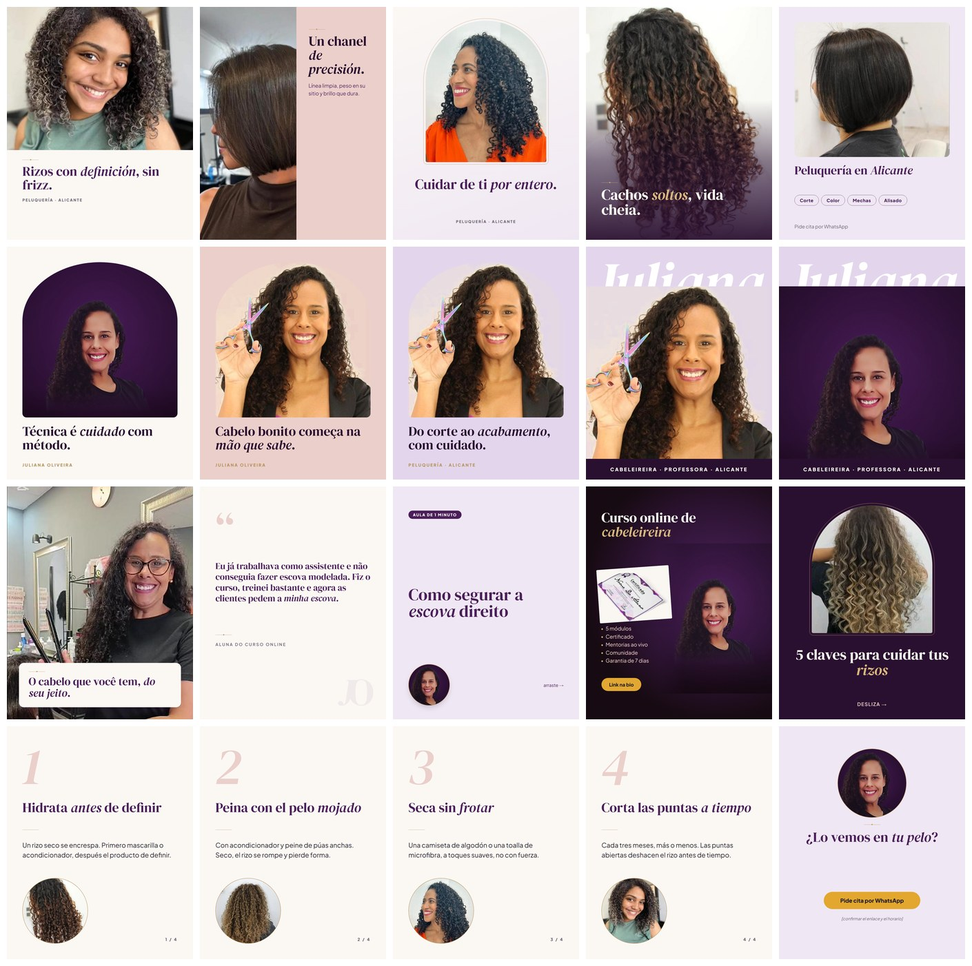
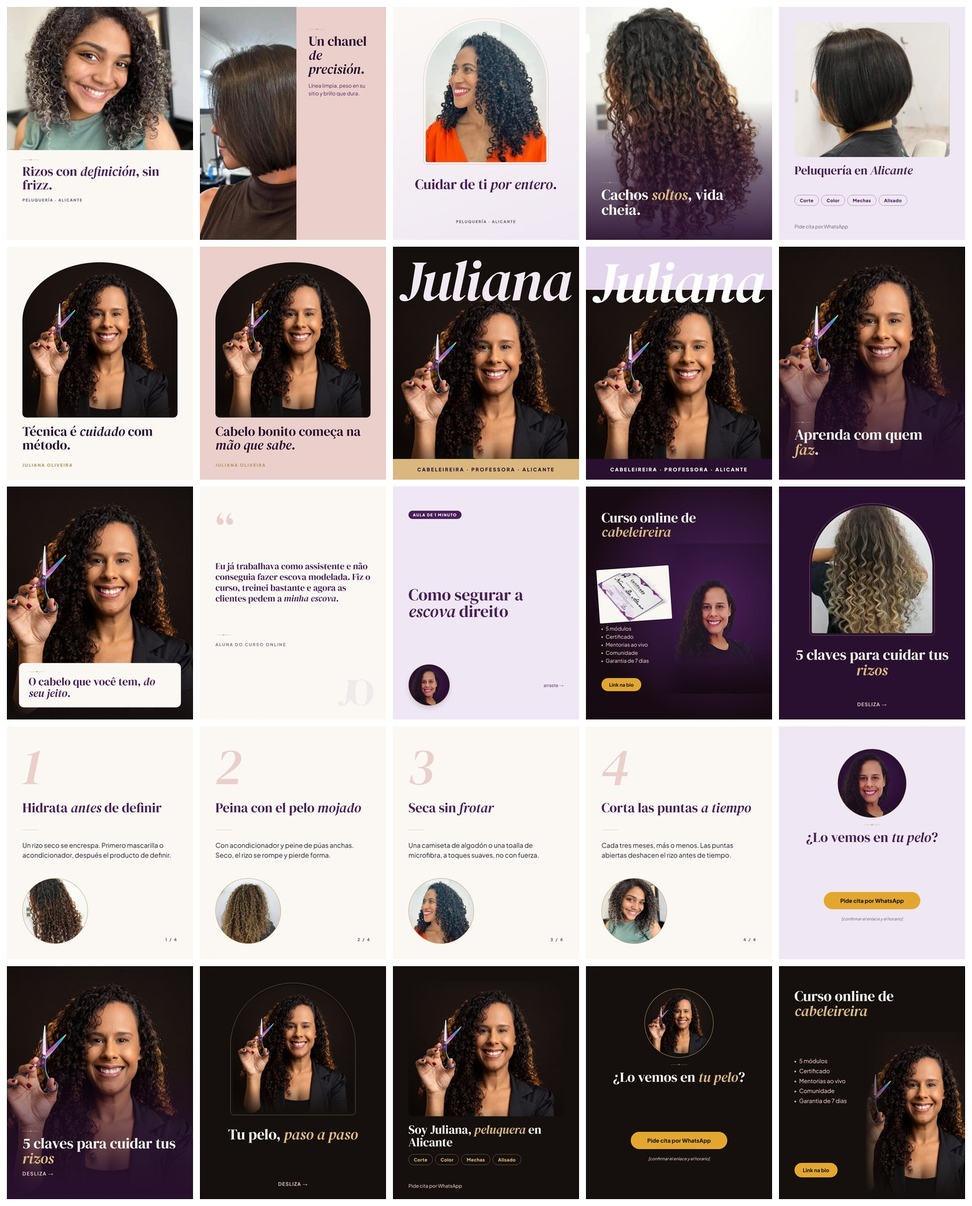
Posts e perfil com a foto nova de estudio; numero do WhatsApp; sem o primeiro conjunto

diff --git a/marca/posts-v2.html b/marca/posts-v2.html
@@ -72,6 +72,18 @@ h2{font-size:clamp(24px,4vw,34px);margin:56px 0 6px}
 .n1 .big{position:absolute;left:0;right:0;top:40px;text-align:center;font:400 330px/1 "DM Serif Display",serif;font-style:italic;color:#fff;letter-spacing:-.02em}
 .n1 .foto{left:0;top:230px;width:1080px;height:1000px;object-position:50% 22%}
 .n1 .faixa{position:absolute;left:0;right:0;bottom:0;height:120px;background:#2A1030;color:#FBF8F4;display:flex;align-items:center;justify-content:center;font:800 28px "Plus Jakarta Sans";letter-spacing:.22em}
+.n1.pt{background:#15100d}.n1.pt .big{color:#F1E8F2;top:30px}.n1.pt .foto{top:250px;height:980px}.n1.pt .faixa{background:#D9B77E;color:#2A1030}
+.n1.lv2 .foto{top:250px;height:980px}
+.n1 .big{z-index:2}
+.h4 .deslz{margin-top:26px;font:600 28px "Plus Jakarta Sans";letter-spacing:.14em;color:#EBCFCB}
+.k1.k1b{background:#15100d}
+.h5.pt2{background:#15100d}.h5.pt2 h3{color:#FBF8F4}.h5.pt2 h3 em{color:#D9B77E}.h5.pt2 li{border-color:#D9B77E;color:#D9B77E}.h5.pt2 .rod{color:#EBCFCB}
+.k6.pt3{background:#15100d}.k6.pt3 h3{color:#FBF8F4}.k6.pt3 h3 em{color:#D9B77E}.k6.pt3 .conf{color:#EBCFCB}.k6.pt3 .av{border-color:#D9B77E}
+.e2{background:#15100d}.e2 h2{position:absolute;left:90px;top:130px;width:880px;margin:0;font:400 84px/1.02 "DM Serif Display",serif;color:#FBF8F4}.e2 h2 em{color:#D9B77E}
+.e2 .ret{left:500px;top:380px;width:580px;height:970px;object-position:50% 14%;-webkit-mask-image:linear-gradient(to right,transparent,#000 24%);mask-image:linear-gradient(to right,transparent,#000 24%)}
+.e2 ul{position:absolute;left:90px;top:520px;margin:0;padding:0;list-style:none;font:400 33px/1.75 "Plus Jakarta Sans";color:#EBCFCB}
+.e2 li:before{content:"";display:inline-block;width:9px;height:9px;background:#D9B77E;transform:rotate(45deg);margin-right:18px;vertical-align:middle}
+.e2 .btn{position:absolute;left:90px;top:1140px;height:84px;padding:0 48px;display:flex;align-items:center;border-radius:999px;background:#E3A72F;color:#1F1A22;font:800 30px "Plus Jakarta Sans"}
 /* C: carrossel */
 .k1{background:#2A1030}
 .k1 .arc{position:absolute;left:190px;top:110px;width:700px;height:740px;border-radius:999px 999px 24px 24px;overflow:hidden;outline:1px solid #D9B77E;outline-offset:12px}
@@ -103,33 +115,33 @@ h2{font-size:clamp(24px,4vw,34px);margin:56px 0 6px}
 <p class="lead">Cada um serve para um tipo de post. O primeiro e o terceiro funcionam para resultados. O segundo para frase de marca. O quarto é um pôster. O quinto lista serviços.</p>
 <div class="cards">
 
-<div class="card"><div class="frame"><div class="ab h1"><img class="foto" src="../assets/ig/cacho-grisalho.jpg" style="object-position:50% 28%" alt="Cliente de cabelo cacheado sorrindo"><div class="pn"><div class="fio"><i></i></div><h3>Rizos con <em>definición</em>, sin frizz.</h3><span class="tag">PELUQUERÍA &middot; ALICANTE</span></div></div></div><h3>Foto em cima, frase embaixo</h3><p>O mais seguro: a foto manda e o texto descansa.</p><span class="sug">frase: sugestão, você aprova</span></div>
+<div class="card"><div class="frame" data-n="h1"><div class="ab h1"><img class="foto" src="../assets/ig/cacho-grisalho.jpg" style="object-position:50% 28%" alt="Cliente de cabelo cacheado sorrindo"><div class="pn"><div class="fio"><i></i></div><h3>Rizos con <em>definición</em>, sin frizz.</h3><span class="tag">PELUQUERÍA &middot; ALICANTE</span></div></div></div><h3>Foto em cima, frase embaixo</h3><p>O mais seguro: a foto manda e o texto descansa.</p><span class="sug">frase: sugestão, você aprova</span></div>
 
-<div class="card"><div class="frame"><div class="ab h2"><img class="foto" src="../assets/ig/chanel-costas.jpg" style="object-position:30% 50%" alt="Corte chanel visto de costas"><div class="pn"><div class="fio"><i></i></div><h3>Un chanel <em>de precisión</em>.</h3><p>Línea limpia, peso en su sitio y brillo que dura.</p></div></div></div><h3>Metade foto, metade frase</h3><p>Fundo blush quente, como os pôsteres de salão.</p><span class="sug">frase: sugestão, você aprova</span></div>
+<div class="card"><div class="frame" data-n="h2"><div class="ab h2"><img class="foto" src="../assets/ig/chanel-costas.jpg" style="object-position:30% 50%" alt="Corte chanel visto de costas"><div class="pn"><div class="fio"><i></i></div><h3>Un chanel <em>de precisión</em>.</h3><p>Línea limpia, peso en su sitio y brillo que dura.</p></div></div></div><h3>Metade foto, metade frase</h3><p>Fundo blush quente, como os pôsteres de salão.</p><span class="sug">frase: sugestão, você aprova</span></div>
 
-<div class="card"><div class="frame"><div class="ab h3"><div class="arc"><img src="../assets/ig/cacho-sorriso.jpg" style="object-position:50% 30%" alt="Cliente de cachos escuros sorrindo"></div><h3>Cuidar de ti <em>por entero</em>.</h3><div class="tag">PELUQUERÍA &middot; ALICANTE</div></div></div><h3>Arco dourado</h3><p>Mesmo arco da página do curso: a marca se repete.</p><span class="sug">frase: sugestão, você aprova</span></div>
+<div class="card"><div class="frame" data-n="h3"><div class="ab h3"><div class="arc"><img src="../assets/ig/cacho-sorriso.jpg" style="object-position:50% 30%" alt="Cliente de cachos escuros sorrindo"></div><h3>Cuidar de ti <em>por entero</em>.</h3><div class="tag">PELUQUERÍA &middot; ALICANTE</div></div></div><h3>Arco dourado</h3><p>Mesmo arco da página do curso: a marca se repete.</p><span class="sug">frase: sugestão, você aprova</span></div>
 
-<div class="card"><div class="frame"><div class="ab h4"><img class="foto" src="../assets/ig/cacho-mel.jpg" style="object-position:50% 25%" alt="Cachos longos com reflexos mel"><div class="vel"></div><div class="txt"><div class="fio" style="background:#D9B77E"><i style="background:#D9B77E"></i></div><h3>Cachos <em>soltos</em>, vida cheia.</h3></div></div></div><h3>Pôster com véu ameixa</h3><p>Foto sangrando e frase em ouro. Tom da marca sem tapar o cabelo.</p><span class="sug">frase: sugestão, você aprova</span></div>
+<div class="card"><div class="frame" data-n="h4"><div class="ab h4"><img class="foto" src="../assets/ig/cacho-mel.jpg" style="object-position:50% 25%" alt="Cachos longos com reflexos mel"><div class="vel"></div><div class="txt"><div class="fio" style="background:#D9B77E"><i style="background:#D9B77E"></i></div><h3>Cachos <em>soltos</em>, vida cheia.</h3></div></div></div><h3>Pôster com véu ameixa</h3><p>Foto sangrando e frase em ouro. Tom da marca sem tapar o cabelo.</p><span class="sug">frase: sugestão, você aprova</span></div>
 
-<div class="card"><div class="frame"><div class="ab h5"><img class="foto" src="../assets/ig/chanel-lado.jpg" style="object-position:50% 40%" alt="Corte chanel escuro de lado"><h3>Peluquería en <em>Alicante</em></h3><ul><li>Corte</li><li>Color</li><li>Mechas</li><li>Alisado</li></ul><div class="rod">Pide cita por WhatsApp</div></div></div><h3>Serviços sobre a foto</h3><p>Os quatro serviços estão na sua bio.</p><span class="sug">lista: confirmar com você</span></div>
+<div class="card"><div class="frame" data-n="h5"><div class="ab h5"><img class="foto" src="../assets/ig/chanel-lado.jpg" style="object-position:50% 40%" alt="Corte chanel escuro de lado"><h3>Peluquería en <em>Alicante</em></h3><ul><li>Corte</li><li>Color</li><li>Mechas</li><li>Alisado</li></ul><div class="rod">Pide cita por WhatsApp</div></div></div><h3>Serviços sobre a foto</h3><p>Os quatro serviços estão na sua bio. Estilo "mega hair" do Renew.</p><span class="sug">lista: confirmar com você</span></div>
 
 </div>
 
-<h2>2. A sua foto <em>sem o roxo pesado</em></h2>
-<p class="lead">Dois jeitos ficaram: o retrato em cúpula e o nome grande atrás. Troquei o fundo e usei fotos suas com o fundo claro do TikTok e do vídeo, para o retrato casar com a cor do post em vez de brigar com ela.</p>
+<h2>2. A foto nova de <em>estúdio</em></h2>
+<p class="lead">Troquei todos os retratos pela foto de estúdio nova, com fundo preto quente. O preto casa com a foto: nada de retângulo estranho nem roxo pesado. Os dois que você gostou continuam: a cúpula e o nome grande.</p>
 <div class="cards">
 
-<div class="card"><div class="frame"><div class="ab p2"><img class="foto" src="../assets/tratadas/hero-A-1080x1350.jpg" alt="Retrato da Juliana"><h3>Técnica é <em>cuidado</em> com método.</h3><div class="nm">JULIANA OLIVEIRA</div></div></div><h3>Cúpula creme (a que você gostou)</h3><p>Retrato original, fundo ameixa só dentro da cúpula.</p><span class="sug">frase: sugestão, você ajusta</span></div>
+<div class="card"><div class="frame" data-n="f1"><div class="ab p2"><img class="foto" src="../assets/tratadas/hero-estudio-ia.jpg" style="object-position:50% 14%" alt="Juliana Oliveira em estúdio, sorrindo com a tesoura"><h3>Técnica é <em>cuidado</em> com método.</h3><div class="nm">JULIANA OLIVEIRA</div></div></div><h3>Cúpula creme</h3><p>A que você gostou, agora com a foto de estúdio.</p><span class="sug">frase: sugestão, você ajusta</span></div>
 
-<div class="card"><div class="frame"><div class="ab p2 bl"><img class="foto" src="../assets/tiktok/avatar-blush.jpg" style="object-position:50% 20%" alt="Juliana sorrindo com a tesoura"><h3>Cabelo bonito começa na <em>mão que sabe</em>.</h3><div class="nm">JULIANA OLIVEIRA</div></div></div><h3>Cúpula blush, foto do TikTok</h3><p>Fundo da foto e do post na mesma cor: a foto se encaixa.</p><span class="sug">frase: sugestão, você ajusta</span></div>
+<div class="card"><div class="frame" data-n="f2"><div class="ab p2 bl"><img class="foto" src="../assets/tratadas/hero-estudio-ia.jpg" style="object-position:50% 14%" alt="Juliana Oliveira em estúdio, sorrindo com a tesoura"><h3>Cabelo bonito começa na <em>mão que sabe</em>.</h3><div class="nm">JULIANA OLIVEIRA</div></div></div><h3>Cúpula blush</h3><p>Mesma ideia sobre fundo blush quente.</p><span class="sug">frase: sugestão, você ajusta</span></div>
 
-<div class="card"><div class="frame"><div class="ab p2 lv"><img class="foto" src="../assets/tiktok/avatar-lavanda.jpg" style="object-position:50% 20%" alt="Juliana sorrindo com a tesoura"><h3>Do corte ao <em>acabamento</em>, com cuidado.</h3><div class="nm">PELUQUERÍA &middot; ALICANTE</div></div></div><h3>Cúpula lavanda</h3><p>Mesma ideia em lavanda, mais calma.</p><span class="sug">frase: sugestão, você ajusta</span></div>
+<div class="card"><div class="frame" data-n="f3"><div class="ab n1 pt"><div class="big">Juliana</div><img class="foto" src="../assets/tratadas/hero-estudio-ia.jpg" alt="Juliana Oliveira em estúdio"><div class="faixa">CABELEIREIRA &middot; PROFESSORA &middot; ALICANTE</div></div></div><h3>Nome grande, fundo preto quente</h3><p>O nome na frente e a foto sem moldura. O subtítulo tem faixa dourada e contraste.</p><span class="sug">texto: confirmar</span></div>
 
-<div class="card"><div class="frame"><div class="ab n1"><div class="big">Juliana</div><img class="foto" src="../assets/tiktok/avatar-lavanda.jpg" alt="Juliana sorrindo com a tesoura"><div class="faixa">CABELEIREIRA &middot; PROFESSORA &middot; ALICANTE</div></div></div><h3>Nome grande atrás, fundo lavanda</h3><p>Foto sem retângulo: o fundo da foto é o do post. Faixa escura para o subtítulo ter contraste.</p><span class="sug">texto: confirmar</span></div>
+<div class="card"><div class="frame" data-n="f4"><div class="ab n1 lv2"><div class="big">Juliana</div><img class="foto" src="../assets/tratadas/hero-estudio-ia.jpg" alt="Juliana Oliveira em estúdio"><div class="faixa">CABELEIREIRA &middot; PROFESSORA &middot; ALICANTE</div></div></div><h3>Nome grande, fundo lavanda</h3><p>O mesmo post, com o nome em branco sobre lavanda.</p><span class="sug">texto: confirmar</span></div>
 
-<div class="card"><div class="frame"><div class="ab n1 n2"><div class="big">Juliana</div><img class="foto" src="../assets/tratadas/hero-A-1080x1350.jpg" style="object-position:50% 12%" alt="Retrato da Juliana"><div class="faixa">CABELEIREIRA &middot; PROFESSORA &middot; ALICANTE</div></div></div><h3>Nome grande atrás, retrato de estúdio</h3><p>Mesma ideia com o retrato escuro. Subtítulo agora legível.</p><span class="sug">texto: confirmar</span></div>
+<div class="card"><div class="frame" data-n="f5"><div class="ab h4"><img class="foto" src="../assets/tratadas/hero-estudio-ia.jpg" style="object-position:50% 22%" alt="Juliana Oliveira em estúdio"><div class="vel"></div><div class="txt"><div class="fio" style="background:#D9B77E"><i style="background:#D9B77E"></i></div><h3>Aprenda com quem <em>faz</em>.</h3></div></div></div><h3>Pôster com frase</h3><p>Foto sangrando, véu escuro embaixo e a frase em ouro.</p><span class="sug">frase: sugestão, você ajusta</span></div>
 
-<div class="card"><div class="frame"><div class="ab p1"><img class="foto" src="../assets/tiktok/video-oculos-chapinha.jpg" alt="Juliana no salão com a chapinha"><div class="pn"><div class="fio"><i></i></div><h3>O cabelo que você tem, <em>do seu jeito</em>.</h3></div></div></div><h3>No salão, com cartão creme</h3><p>Foto de vídeo sua trabalhando. O cartão tapa o fundo do corpo.</p><span class="sug">frase: sugestão, você ajusta</span></div>
+<div class="card"><div class="frame" data-n="f6"><div class="ab p1"><img class="foto" src="../assets/tratadas/hero-estudio-ia.jpg" alt="Juliana Oliveira em estúdio"><div class="pn"><div class="fio"><i></i></div><h3>O cabelo que você tem, <em>do seu jeito</em>.</h3></div></div></div><h3>Foto cheia + cartão creme</h3><p>O texto num cartão, sem competir com o rosto.</p><span class="sug">frase: sugestão, você ajusta</span></div>
 
 </div>
 
@@ -137,24 +149,40 @@ h2{font-size:clamp(24px,4vw,34px);margin:56px 0 6px}
 <p class="lead">Carrossel é o que mais salva e compartilha. Capa que promete, quatro dicas curtas e uma chamada final para marcar hora. As dicas são genéricas e conhecidas; você troca pelas suas. Deslize para o lado.</p>
 <div class="strip" tabindex="0" aria-label="Carrossel de 6 telas">
 
-<div class="card"><div class="frame"><div class="ab k1"><div class="arc"><img src="../assets/ig/cacho-longo.jpg" style="object-position:50% 20%" alt="Cachos longos loiros e mel"></div><h3>5 claves para cuidar tus <em>rizos</em></h3><div class="arr">DESLIZA &rarr;</div></div></div><h3>1 · Capa</h3></div>
+<div class="card"><div class="frame" data-n="k1"><div class="ab k1"><div class="arc"><img src="../assets/ig/cacho-longo.jpg" style="object-position:50% 20%" alt="Cachos longos loiros e mel"></div><h3>5 claves para cuidar tus <em>rizos</em></h3><div class="arr">DESLIZA &rarr;</div></div></div><h3>1 · Capa</h3></div>
 
-<div class="card"><div class="frame"><div class="ab k"><div class="n">1</div><h3>Hidrata <em>antes</em> de definir</h3><div class="fio"></div><p>Un rizo seco se encrespa. Primero mascarilla o acondicionador, después el producto de definir.</p><img class="foto" src="../assets/ig/cacho-mel.jpg" style="object-position:50% 30%" alt=""><div class="pg">1 / 4</div></div></div><h3>2 · Dica</h3></div>
+<div class="card"><div class="frame" data-n="k2"><div class="ab k"><div class="n">1</div><h3>Hidrata <em>antes</em> de definir</h3><div class="fio"></div><p>Un rizo seco se encrespa. Primero mascarilla o acondicionador, después el producto de definir.</p><img class="foto" src="../assets/ig/cacho-mel.jpg" style="object-position:50% 30%" alt=""><div class="pg">1 / 4</div></div></div><h3>2 · Dica</h3></div>
 
-<div class="card"><div class="frame"><div class="ab k"><div class="n">2</div><h3>Peina con el pelo <em>mojado</em></h3><div class="fio"></div><p>Con acondicionador y peine de púas anchas. Seco, el rizo se rompe y pierde forma.</p><img class="foto" src="../assets/ig/cacho-loiro.jpg" style="object-position:50% 30%" alt=""><div class="pg">2 / 4</div></div></div><h3>3 · Dica</h3></div>
+<div class="card"><div class="frame" data-n="k3"><div class="ab k"><div class="n">2</div><h3>Peina con el pelo <em>mojado</em></h3><div class="fio"></div><p>Con acondicionador y peine de púas anchas. Seco, el rizo se rompe y pierde forma.</p><img class="foto" src="../assets/ig/cacho-loiro.jpg" style="object-position:50% 30%" alt=""><div class="pg">2 / 4</div></div></div><h3>3 · Dica</h3></div>
 
-<div class="card"><div class="frame"><div class="ab k"><div class="n">3</div><h3>Seca sin <em>frotar</em></h3><div class="fio"></div><p>Una camiseta de algodón o una toalla de microfibra, a toques suaves, no con fuerza.</p><img class="foto" src="../assets/ig/cacho-sorriso.jpg" style="object-position:50% 30%" alt=""><div class="pg">3 / 4</div></div></div><h3>4 · Dica</h3></div>
+<div class="card"><div class="frame" data-n="k4"><div class="ab k"><div class="n">3</div><h3>Seca sin <em>frotar</em></h3><div class="fio"></div><p>Una camiseta de algodón o una toalla de microfibra, a toques suaves, no con fuerza.</p><img class="foto" src="../assets/ig/cacho-sorriso.jpg" style="object-position:50% 30%" alt=""><div class="pg">3 / 4</div></div></div><h3>4 · Dica</h3></div>
 
-<div class="card"><div class="frame"><div class="ab k"><div class="n">4</div><h3>Corta las puntas <em>a tiempo</em></h3><div class="fio"></div><p>Cada tres meses, más o menos. Las puntas abiertas deshacen el rizo antes de tiempo.</p><img class="foto" src="../assets/ig/cacho-grisalho.jpg" style="object-position:50% 30%" alt=""><div class="pg">4 / 4</div></div></div><h3>5 · Dica</h3></div>
+<div class="card"><div class="frame" data-n="k5"><div class="ab k"><div class="n">4</div><h3>Corta las puntas <em>a tiempo</em></h3><div class="fio"></div><p>Cada tres meses, más o menos. Las puntas abiertas deshacen el rizo antes de tiempo.</p><img class="foto" src="../assets/ig/cacho-grisalho.jpg" style="object-position:50% 30%" alt=""><div class="pg">4 / 4</div></div></div><h3>5 · Dica</h3></div>
 
-<div class="card"><div class="frame"><div class="ab k6"><div class="av"><img src="../assets/tratadas/avatar-800.jpg" alt="Juliana Oliveira"></div><div class="fio"><i></i></div><h3>¿Lo vemos en <em>tu pelo</em>?</h3><div class="btn">Pide cita por WhatsApp</div><div class="conf">[confirmar el enlace y el horario]</div></div></div><h3>6 · Chamada</h3></div>
+<div class="card"><div class="frame" data-n="k6"><div class="ab k6"><div class="av"><img src="../assets/tratadas/avatar-800.jpg" alt="Juliana Oliveira"></div><div class="fio"><i></i></div><h3>¿Lo vemos en <em>tu pelo</em>?</h3><div class="btn">Pide cita por WhatsApp</div><div class="conf">[confirmar el enlace y el horario]</div></div></div><h3>6 · Chamada</h3></div>
 
 </div>
 <div class="nota">Dicas, frases e o espanhol são sugestões em tom neutro e conhecido. Você corrige com a sua técnica. O "a cada três meses" é regra geral e você pode mudar.</div>
+<h2>4. Mais posts com a <em>foto nova</em></h2>
+<p class="lead">Capas de carrossel e posts de apresentação, de chamada e do curso, para a grade do perfil. Cada capa promete uma coisa e leva ao carrossel.</p>
+<div class="cards">
+
+<div class="card"><div class="frame" data-n="c1"><div class="ab h4"><img class="foto" src="../assets/tratadas/hero-estudio-ia.jpg" style="object-position:50% 18%" alt="Juliana Oliveira em estúdio"><div class="vel"></div><div class="txt"><div class="fio" style="background:#D9B77E"><i style="background:#D9B77E"></i></div><h3>5 claves para cuidar tus <em>rizos</em></h3><div class="deslz">DESLIZA &rarr;</div></div></div></div><h3>Capa de carrossel 1</h3><p>A capa que promete, com ela olhando para quem passa.</p><span class="sug">frase: sugestão, você ajusta</span></div>
+
+<div class="card"><div class="frame" data-n="c2"><div class="ab k1 k1b"><div class="arc"><img src="../assets/tratadas/hero-estudio-ia.jpg" style="object-position:50% 10%" alt="Juliana Oliveira em estúdio"></div><h3>Tu pelo, <em>paso a paso</em></h3><div class="arr">DESLIZA &rarr;</div></div></div><h3>Capa de carrossel 2</h3><p>Arco dourado, igual ao da página do curso.</p><span class="sug">frase: sugestão, você ajusta</span></div>
+
+<div class="card"><div class="frame" data-n="c3"><div class="ab h5 pt2"><img class="foto" src="../assets/tratadas/hero-estudio-ia.jpg" style="object-position:50% 14%" alt="Juliana Oliveira em estúdio"><h3>Soy Juliana, <em>peluquera</em> en Alicante</h3><ul><li>Corte</li><li>Color</li><li>Mechas</li><li>Alisado</li></ul><div class="rod">Pide cita por WhatsApp</div></div></div><h3>Apresentação (fixado)</h3><p>Quem é, onde está e o que faz. Serviços da bio dela.</p><span class="sug">lista: confirmar com você</span></div>
+
+<div class="card"><div class="frame" data-n="c4"><div class="ab k6 pt3"><div class="av"><img src="../assets/tratadas/hero-estudio-ia.jpg" style="object-position:50% 16%" alt="Juliana Oliveira"></div><div class="fio"><i></i></div><h3>¿Lo vemos en <em>tu pelo</em>?</h3><div class="btn">Pide cita por WhatsApp</div><div class="conf">[confirmar el enlace y el horario]</div></div></div><h3>Chamada para marcar hora</h3><p>O fixado "Cómo reservar".</p><span class="sug">link e horário: confirmar</span></div>
+
+<div class="card"><div class="frame" data-n="c5"><div class="ab e2"><h2>Curso online de <em>cabeleireira</em></h2><img class="ret" src="../assets/tratadas/hero-estudio-ia.jpg" style="object-position:50% 14%" alt="Juliana Oliveira em estúdio"><ul><li>5 módulos</li><li>Certificado</li><li>Mentorias ao vivo</li><li>Comunidade</li><li>Garantia de 7 dias</li></ul><div class="btn">Link na bio</div></div></div><h3>Chamada do curso</h3><p>Sem preço. O preço só entra com o seu aval.</p><span class="sug">frase: sugestão, você ajusta</span></div>
+
+</div>
+
 
 </div>
 <script>
-(function(){var q=new URLSearchParams(location.search).get('solo');if(q===null)return;var l=[].slice.call(document.querySelectorAll('.cards .frame,.strip .frame'));var a=l[+q].firstElementChild.cloneNode(true);document.body.innerHTML='';document.body.style.cssText='margin:0;background:#fff;overflow:hidden';a.style.cssText='position:absolute;left:0;top:0;transform:none';document.body.appendChild(a)})();
+(function(){var q=new URLSearchParams(location.search).get('solo');if(q===null)return;var l=[].slice.call(document.querySelectorAll('.frame[data-n]'));var f=l.filter(function(x){return x.getAttribute('data-n')===q})[0]||l[+q];var a=f.firstElementChild.cloneNode(true);document.body.innerHTML='';document.body.style.cssText='margin:0;background:#fff;overflow:hidden';a.style.cssText='position:absolute;left:0;top:0;transform:none';document.body.appendChild(a)})();
 function fit(){document.querySelectorAll('.frame').forEach(function(f){var a=f.firstElementChild;if(!a)return;var s=f.clientWidth/1080;a.style.transform='scale('+s+')'})}
 addEventListener('resize',fit);addEventListener('load',fit);fit();
 </script></body></html>

diff --git a/instagram/perfil-v2.html b/instagram/perfil-v2.html
@@ -88,6 +88,7 @@ a:focus-visible{outline:2px solid var(--roxo);outline-offset:2px}
 .tabs{display:flex;justify-content:center;border-top:1px solid #e4dbe8;padding:10px}
 .pg{display:grid;grid-template-columns:repeat(3,1fr);gap:2px}
 .pg .cell{aspect-ratio:3/4}
+.pg .cell{position:relative;overflow:hidden;background:#15100d}.pg .cell img{width:100%;height:100%;object-fit:cover;display:block}.pg .cell .pn{position:absolute;right:5px;top:5px;width:14px;height:14px;border-radius:50%;background:rgba(42,16,48,.8)}.pg .cell .l{position:absolute;left:5px;bottom:5px;background:rgba(251,248,244,.95);color:#4B1E5A;font:800 8px/1 "Plus Jakarta Sans",sans-serif;padding:3px 7px;border-radius:99px}
 .cols{display:grid;grid-template-columns:1fr 1fr;gap:20px;margin-top:20px}
 .box{background:#fff;border:1px solid #e4dbe8;border-radius:20px;padding:22px}
 .box.n{background:var(--lav);border-color:var(--blush)}
@@ -109,13 +110,13 @@ code{font-size:13px;word-break:break-all;background:var(--lav);padding:2px 6px;b
 <p class="lead">Simulação feita por mim, a partir do seu perfil público. Nada foi alterado no seu perfil. Textos em espanhol e itens com [confirmar] são sugestões para você aprovar.</p>
 <div class="demo"><div class="phone">
 <div class="top"><span>julianaoliveira_cabelos</span><span aria-hidden="true">&#8943;</span></div>
-<div class="head"><div class="ring"><div>JO<img src="../assets/tratadas/avatar-800.jpg" alt="Juliana Oliveira, foto de perfil" onerror="this.style.display='none'"></div></div>
+<div class="head"><div class="ring"><div>JO<img src="../assets/tratadas/hero-estudio-ia.jpg" style="object-fit:cover;object-position:50% 18%" alt="Juliana Oliveira, foto de perfil" onerror="this.style.display='none'"></div></div>
 <div><div class="nm">Juliana Oliveira · Peluquería Alicante</div><div class="cat">Peluquería</div></div></div>
 <div class="bio">Peluquera con +20 años · Formadora de peluqueras<br>Corte · Color · Mechas · Depilación <span class="cf">[confirmar]</span><br>Alicante <span class="cf">[confirmar dirección y horario]</span><br><a href="#extra">Reservar por WhatsApp</a></div>
 <div class="btns"><a class="r" href="#extra">Reservar</a><a class="w" href="#extra">WhatsApp</a></div>
 <div class="hl"><span>Corte</span><span>Color</span><span>Mechas</span><span>Depilación</span><span>Dónde estamos</span><span>Opiniones</span></div>
 <div class="tabs" aria-hidden="true"><svg width="22" height="22" viewBox="0 0 24 24" fill="none" stroke="#1F1A22" stroke-width="2"><rect x="3" y="3" width="7" height="7"/><rect x="14" y="3" width="7" height="7"/><rect x="3" y="14" width="7" height="7"/><rect x="14" y="14" width="7" height="7"/></svg></div>
-<div class="pg"><div class="frame cell" data-cover><div class="ab p"><img src="../assets/tratadas/blazer-A-1280x720.jpg" alt="Juliana Oliveira de blazer preto, retrato em fundo escuro" style="object-position:8% 30%;" onerror="this.style.display='none'"><span class="pin"><svg width="50" height="50" viewBox="0 0 24 24" fill="#FBF8F4" aria-hidden="true"><path d="M14 3l7 7-3 1-3 3 .5 5-2 .5-3.5-3.5L4 21l-1-1 5.5-5.5L5 11l.5-2 5 .5 3-3z"/></svg></span><span class="lab">Presentación</span></div></div><div class="frame cell" data-cover><div class="ab p"><img src="../assets/tratadas/resultado-cabelo.jpg" alt="Cabelo liso e brilhante depois do trabalho" style="object-position:50% 50%;" onerror="this.style.display='none'"><span class="pin"><svg width="50" height="50" viewBox="0 0 24 24" fill="#FBF8F4" aria-hidden="true"><path d="M14 3l7 7-3 1-3 3 .5 5-2 .5-3.5-3.5L4 21l-1-1 5.5-5.5L5 11l.5-2 5 .5 3-3z"/></svg></span><span class="lab">Antes y después</span></div></div><div class="frame cell" data-cover><div class="ab p"><img src="../assets/tratadas/tesoura-B-1280x720.jpg" alt="Juliana Oliveira com a tesoura na mão, luz de manhã" style="object-position:88% 35%;" onerror="this.style.display='none'"><span class="pin"><svg width="50" height="50" viewBox="0 0 24 24" fill="#FBF8F4" aria-hidden="true"><path d="M14 3l7 7-3 1-3 3 .5 5-2 .5-3.5-3.5L4 21l-1-1 5.5-5.5L5 11l.5-2 5 .5 3-3z"/></svg></span><span class="lab">Cómo reservar</span></div></div><div class="frame cell" data-cover><div class="ab c"><div class="asp" aria-hidden="true">&ldquo;</div><blockquote>Eu já trabalhava como assistente e não conseguia fazer escova modelada. Fiz o curso, treinei bastante e agora as clientes pedem a <em>minha escova</em>.</blockquote><div class="fio"><i></i></div><div class="rot">ALUNA DO CURSO ONLINE</div><div class="jo" aria-hidden="true">J<span>O</span></div></div></div><div class="frame cell" data-cover><div class="ab a grain"><img src="../assets/tratadas/hero-A-1080x1350.jpg" alt="Juliana Oliveira, cabeleireira, de cabelo cacheado escuro" style="object-position:50% 20%;" onerror="this.style.display='none'"><div class="shade"></div><div class="txt"><div class="fio"><i></i></div><h3>Tu pelo, con calma y con <em>técnica</em>.</h3></div></div></div><div class="frame cell" data-cover><div class="ab p"><img src="../assets/tratadas/chanel-inserto.jpg" alt="Corte chanel de acabamento limpo" style="object-position:50% 50%;" onerror="this.style.display='none'"></div></div><div class="frame cell" data-cover><div class="ab a grain"><img src="../assets/tratadas/blazer-A-1280x720.jpg" alt="Juliana Oliveira de blazer preto, retrato em fundo escuro" style="object-position:8% 30%;" onerror="this.style.display='none'"><div class="shade"></div><div class="txt"><div class="fio"><i></i></div><h3>Salir de la peluquería sintiéndote <em>tú</em>.</h3></div></div></div><div class="frame cell" data-cover><div class="ab b"><div class="arc"><img src="../assets/tratadas/tesoura-B-1280x720.jpg" alt="Juliana Oliveira com a tesoura na mão, luz de manhã" style="object-position:88% 35%;" onerror="this.style.display='none'"></div><div class="painel"><h3>Peluquería en <em>Alicante</em></h3><span class="conf">[confirmar a lista]</span><ul><li>Corte</li><li>Mechas</li><li>Color</li><li>Depilación</li></ul></div><div class="rod">Pide cita por WhatsApp</div><svg class="ram" style="right:90px;bottom:30px" viewBox="0 0 64 40" width="64" height="40" fill="none" stroke="#B8925A" stroke-width="1.5" stroke-linecap="round" aria-hidden="true"><path d="M4 36C20 34 36 26 60 6"/><path d="M20 31c-2-7 1-11 6-12 1 6-1 10-6 12zM33 24c-1-7 2-11 7-12 0 6-2 10-7 12zM46 14c0-6 3-9 8-10 0 5-3 9-8 10z"/></svg></div></div><div class="frame cell" data-cover><div class="ab a grain"><img src="../assets/tratadas/tesoura-B-1280x720.jpg" alt="Juliana Oliveira com a tesoura na mão, luz de manhã" style="object-position:88% 35%;" onerror="this.style.display='none'"><div class="shade"></div><div class="txt"><div class="fio"><i></i></div><h3>Tu pelo, a tu <em>medida</em>.</h3></div></div></div></div></div>
+<div class="pg"><div class="cell"><img src="../entrega/posts/05-capas-e-posts-foto-nova/03-apresentacao-fixado.png" alt="Juliana Oliveira, apresentação" loading="lazy"><span class="pn"></span><span class="l">Presentación</span></div><div class="cell"><img src="../assets/tratadas/resultado-cabelo-2x.jpg" alt="Cabelo liso e brilhante depois do trabalho" loading="lazy"><span class="pn"></span><span class="l">Antes y después</span></div><div class="cell"><img src="../entrega/posts/05-capas-e-posts-foto-nova/04-chamada-marcar-hora.png" alt="Como marcar hora" loading="lazy"><span class="pn"></span><span class="l">Cómo reservar</span></div><div class="cell"><img src="../entrega/posts/03-texto-e-aula/01-citacao-de-aluna.png" alt="Citação de aluna" loading="lazy"></div><div class="cell"><img src="../entrega/posts/05-capas-e-posts-foto-nova/01-capa-carrossel-5-claves.png" alt="Capa de carrossel: 5 claves para cuidar tus rizos" loading="lazy"></div><div class="cell"><img src="../entrega/posts/02-retrato-foto-nova/03-nome-grande-preto-quente.png" alt="Juliana, cabeleireira e professora em Alicante" loading="lazy"></div><div class="cell"><img src="../entrega/posts/01-cabelo-com-frase/02-metade-foto-metade-frase-chanel.png" alt="Corte chanel de precisão" loading="lazy"></div><div class="cell"><img src="../entrega/posts/02-retrato-foto-nova/02-cupula-blush.png" alt="Juliana sorrindo, cúpula blush" loading="lazy"></div><div class="cell"><img src="../entrega/posts/04-carrossel-cachos/01-capa.png" alt="Capa de carrossel de cachos" loading="lazy"></div><div class="cell"><img src="../entrega/posts/02-retrato-foto-nova/05-poster-com-frase.png" alt="Aprenda com quem faz" loading="lazy"></div><div class="cell"><img src="../entrega/posts/01-cabelo-com-frase/04-poster-veu-ameixa.png" alt="Cachos soltos, vida cheia" loading="lazy"></div><div class="cell"><img src="../entrega/posts/05-capas-e-posts-foto-nova/05-chamada-do-curso.png" alt="Curso online de cabeleireira" loading="lazy"></div></div></div>
 <div><h2 style="margin-top:0">Como lê <em>quem chega</em></h2>
 <p class="lead">Em 3 segundos a cliente de Alicante vê quem é você, o que faz, onde está e como reservar. A primeira linha da grade são os 3 fixados: apresentação, antes e depois, como marcar hora.</p>
 <p class="lead">Destaques com capas lisas em lavanda e uma palavra em roxo. <b>Opiniones</b> só com avaliações reais de clientes, com autorização.</p>

diff --git a/apresentacao/index.html b/apresentacao/index.html
@@ -41,8 +41,8 @@ a{color:var(--roxo)}
 .hero{padding:56px 0 72px;background:radial-gradient(ellipse at 80% 20%,#efe0f5 0,var(--creme) 60%)}
 .hero .g{display:grid;gap:36px;align-items:center}
 .hero p.lead{font-size:1.2rem;max-width:30em;margin:18px 0 28px}
-.arco{aspect-ratio:4/5;border-radius:999px 999px 24px 24px;background:linear-gradient(160deg,var(--roxo),var(--ameixa));overflow:hidden;position:relative;box-shadow:var(--sombra);outline:1px solid var(--ouro);outline-offset:10px}
-.arco img{width:100%;height:100%;object-fit:cover;display:block}
+.arco{aspect-ratio:4/5;border-radius:999px 999px 24px 24px;background:#15100d;overflow:hidden;position:relative;box-shadow:var(--sombra);outline:1px solid var(--ouro);outline-offset:10px}
+.arco img{width:100%;height:100%;object-fit:cover;object-position:50% 12%;display:block}
 /* quem sou */
 .duas{display:grid;gap:28px}
 .quem{background:var(--lavanda)}
@@ -103,7 +103,7 @@ footer{background:var(--grafite);color:#cfc7d3;padding:34px 0;font-size:.85rem}
       <p class="lead">Vi o seu TikTok, o seu YouTube, o Instagram do salão e a página do curso. Fiquei tão empolgado que preparei alguns exemplos, por conta própria, só pra você ver como pode ficar.</p>
       <a class="btn" href="#preparei">Ver o que preparei</a>
     </div>
-    <div class="arco"><img src="../assets/tratadas/hero-A-1080x1350.jpg" alt="Retrato da Juliana Oliveira em tratamento de estúdio, com fundo ameixa" width="1080" height="1350"></div>
+    <div class="arco"><img src="../assets/tratadas/hero-estudio-ia.jpg" alt="Retrato da Juliana Oliveira em estúdio, sorrindo com a tesoura na mão" width="1080" height="1350"></div>
   </div>
 </header>
 
@@ -170,8 +170,8 @@ footer{background:var(--grafite);color:#cfc7d3;padding:34px 0;font-size:.85rem}
       <div class="tela-larga rv" data-largura="1280"><iframe scrolling="no" src="../marca/posts-v2.html" title="Prévia dos posts" loading="lazy" tabindex="-1"></iframe></div>
       <div class="t rv">
         <h3>Posts para o Instagram</h3>
-        <p>Dois conjuntos. O primeiro tem cinco modelos com a sua imagem e uma frase. O segundo é o que os melhores salões fazem: o seu cabelo com a frase do lado, jeitos novos de usar a sua foto sem o roxo pesado e um carrossel sobre cuidar dos cachos. As frases são sugestão: precisam soar como você.</p>
-        <a class="btn" href="../marca/posts-v2.html">Ver cabelo e carrossel</a> <a class="btn sec" href="../marca/posts.html">Primeiro conjunto</a>
+        <p>O que os melhores salões fazem: o seu cabelo com a frase do lado, jeitos novos de usar a sua foto de estúdio e um carrossel sobre cuidar dos cachos. As frases são sugestão: precisam soar como você.</p>
+        <a class="btn" href="../marca/posts-v2.html">Ver cabelo e carrossel</a>
       </div>
     </div>
 
@@ -213,8 +213,7 @@ footer{background:var(--grafite);color:#cfc7d3;padding:34px 0;font-size:.85rem}
       <li>Endereço, horário e serviços do salão em Alicante.</li>
       <li>Se o preço do curso fica em R$ 49 ou volta ao valor cheio.</li>
     </ul>
-    <a class="btn" href="https://wa.me/">Chamar o Diogo no WhatsApp</a>
-    <p class="pend" style="margin-top:12px">[colocar o número do Diogo no link do botão antes de enviar]</p>
+    <a class="btn" href="https://wa.me/34611949428?text=Oi%2C%20Diogo!%20Vi%20a%20apresenta%C3%A7%C3%A3o%20que%20voc%C3%AA%20preparou.">Chamar o Diogo no WhatsApp</a>
   </div>
 </section>
 

diff --git a/entrega/LEIA.md b/entrega/LEIA.md
@@ -6,11 +6,13 @@ Vista geral de tudo numa folha: `posts/_visao-geral.jpg`.
 | Pasta | O que tem |
 |---|---|
 | `01-cabelo-com-frase/` | 5 posts com o cabelo dela e uma frase (foto em cima, metade/metade chanel, arco dourado, pôster com véu ameixa, serviços sobre a foto) |
-| `02-retrato-dela/` | 6 posts com o retrato dela: cúpula creme, cúpula blush e lavanda (foto do TikTok), nome grande atrás (2), no salão com cartão creme |
+| `02-retrato-foto-nova/` | 6 posts com a foto de estúdio nova: cúpula creme e blush, nome grande (preto quente e lavanda), pôster com frase e foto cheia com cartão creme |
 | `03-texto-e-aula/` | Citação de aluna, aula de 1 minuto (escova) e chamada do curso com certificado |
 | `04-carrossel-cachos/` | Carrossel em 6 telas (espanhol): capa, 4 dicas e chamada final |
+| `05-capas-e-posts-foto-nova/` | 5 posts com a foto nova: duas capas de carrossel, apresentação (fixado), chamada para marcar hora e chamada do curso |
 
 ## Antes de publicar qualquer coisa
+- **A foto de estúdio nova é uma recriação por IA** da foto dela. Ela precisa ver e aprovar antes de qualquer uso.
 - **Fotos de cabelo** (pasta 01 e carrossel): são do Instagram dela e quase todas de clientes. Só publicar com autorização de cada cliente.
 - **Frases e dicas** são sugestão: ela ajusta com a técnica e a voz dela. Espanhol a revisar.
 - **Marcado para confirmar:** lista de serviços, link e horário do WhatsApp.

diff --git a/README.md b/README.md
@@ -11,7 +11,7 @@ Abra **[apresentacao/index.html](apresentacao/index.html)**. Ela leva a todo o r
 | `apresentacao/` | Quem sou eu, o que eu vi no que você já tem, o que preparei e os próximos passos |
 | `pagina-curso-v3/` | A página de venda do curso pensada para o celular: rosto, preço e botão já na primeira tela (mesma oferta, mesmo preço, mesma garantia) |
 | `pagina-curso-v2/` | A primeira versão da página do curso, para comparar |
-| `marca/` | Logo, avatar, banner e miniaturas do YouTube, e os posts do Instagram (dois conjuntos e um carrossel) |
+| `marca/` | Logo, avatar, banner e miniaturas do YouTube, e os posts do Instagram (com a foto nova de estúdio e um carrossel) |
 | `instagram/` | O perfil do salão reorganizado e a análise ponto a ponto, antes e depois |
 | `entrega/posts/` | Todos os posts prontos em imagem (1080×1350), organizados por tipo. Há uma vista geral em `_visao-geral.jpg` e um guia em `entrega/LEIA.md` |
 | `assets/` | As fotos usadas: as suas (tratadas), as de cabelo do seu Instagram e as do seu TikTok |
